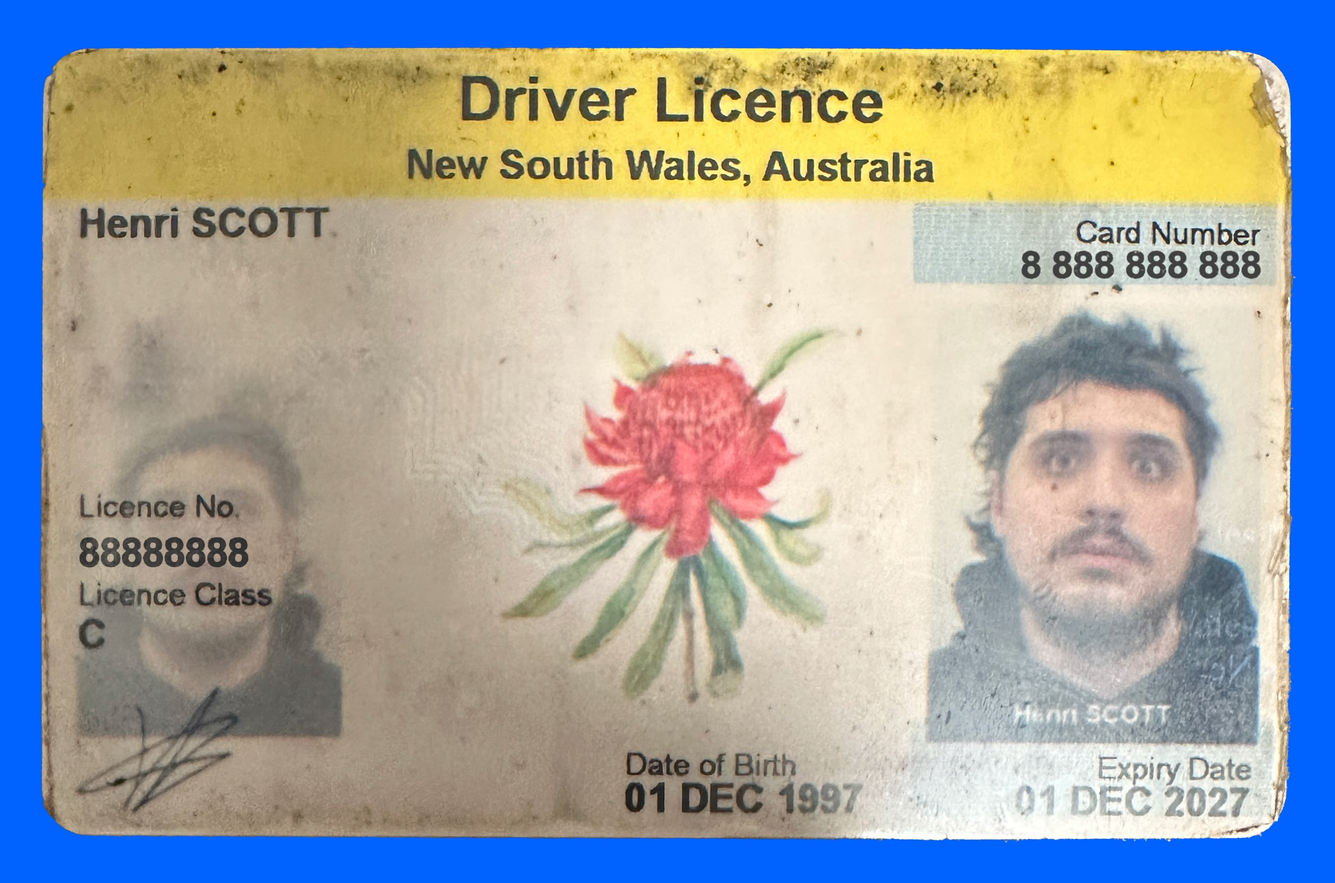
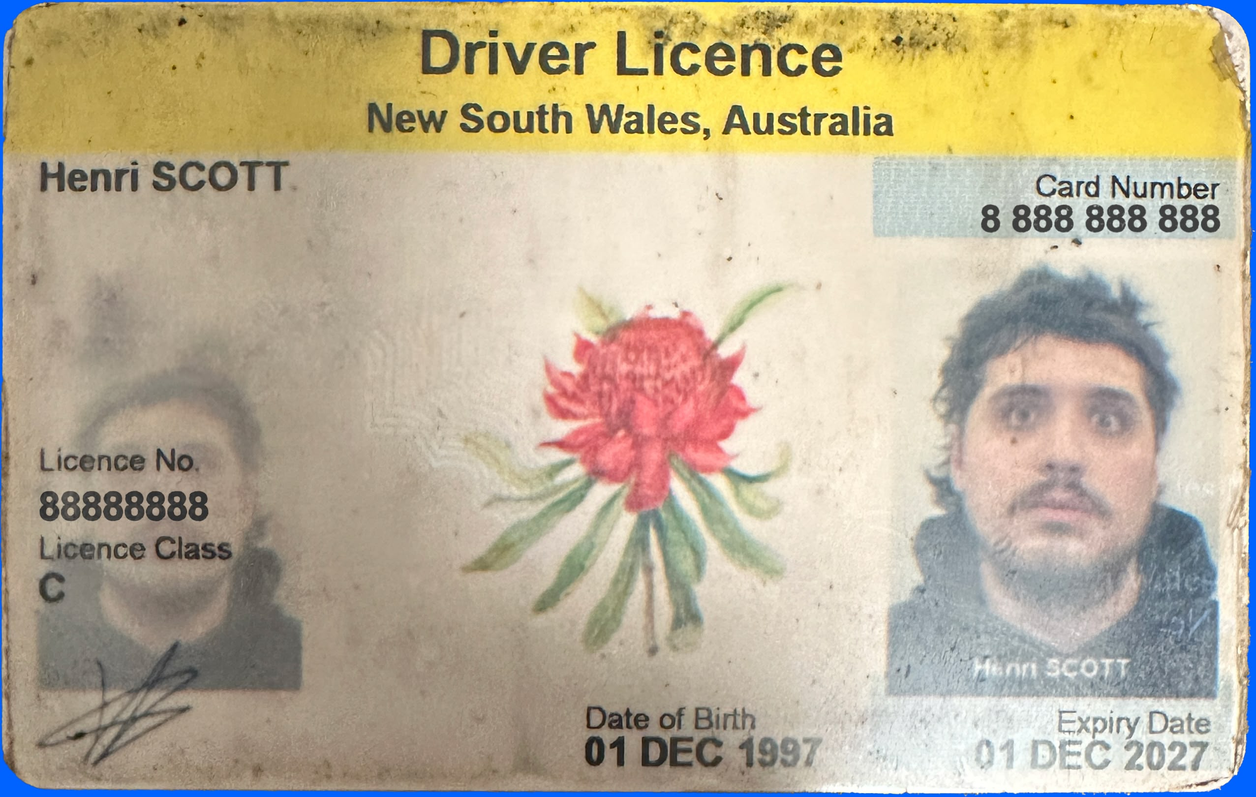
small changes to who page
added licence pic

diff --git a/src/screen_pages/Who.jsx b/src/screen_pages/Who.jsx
@@ -60,11 +60,18 @@ export default function Who({ handleNavigate }) {
             </div>
           </div>
         </div>
-        <div className="overflow-y-scroll scrollbar-hide text-left text-[0.8rem]/3 text-pretty pr-0">
+        <div className="overflow-y-scroll scrollbar\:has-visible-track::-webkit-scrollbar-hide text-right text-[0.8rem]/3 pr-0">
           <p>
-            Henri's FILMMAKING practice spans NARRATIVE and DOCUMENTARY,
-            exploring contemplative internal struggles and contradictory
-            characters who get in their own way.
+            <img
+              alt="a scan of henri's drivers licence with fake details"
+              src="assets/licence_edit_blue.jpg"
+              className="w-full mb-4"
+            />
+            Henri's FILMMAKING practice spans NARRATIVE and DOCUMENTARY.
+            <br />
+            <br />
+            His focus is on exploring contemplative internal struggles and
+            contradictory characters who get in their own way.
             <img
               alt="A venn diagram of law, filmmaking, and design intersecting at creative problem solving"
               src="./venn.jpg"
